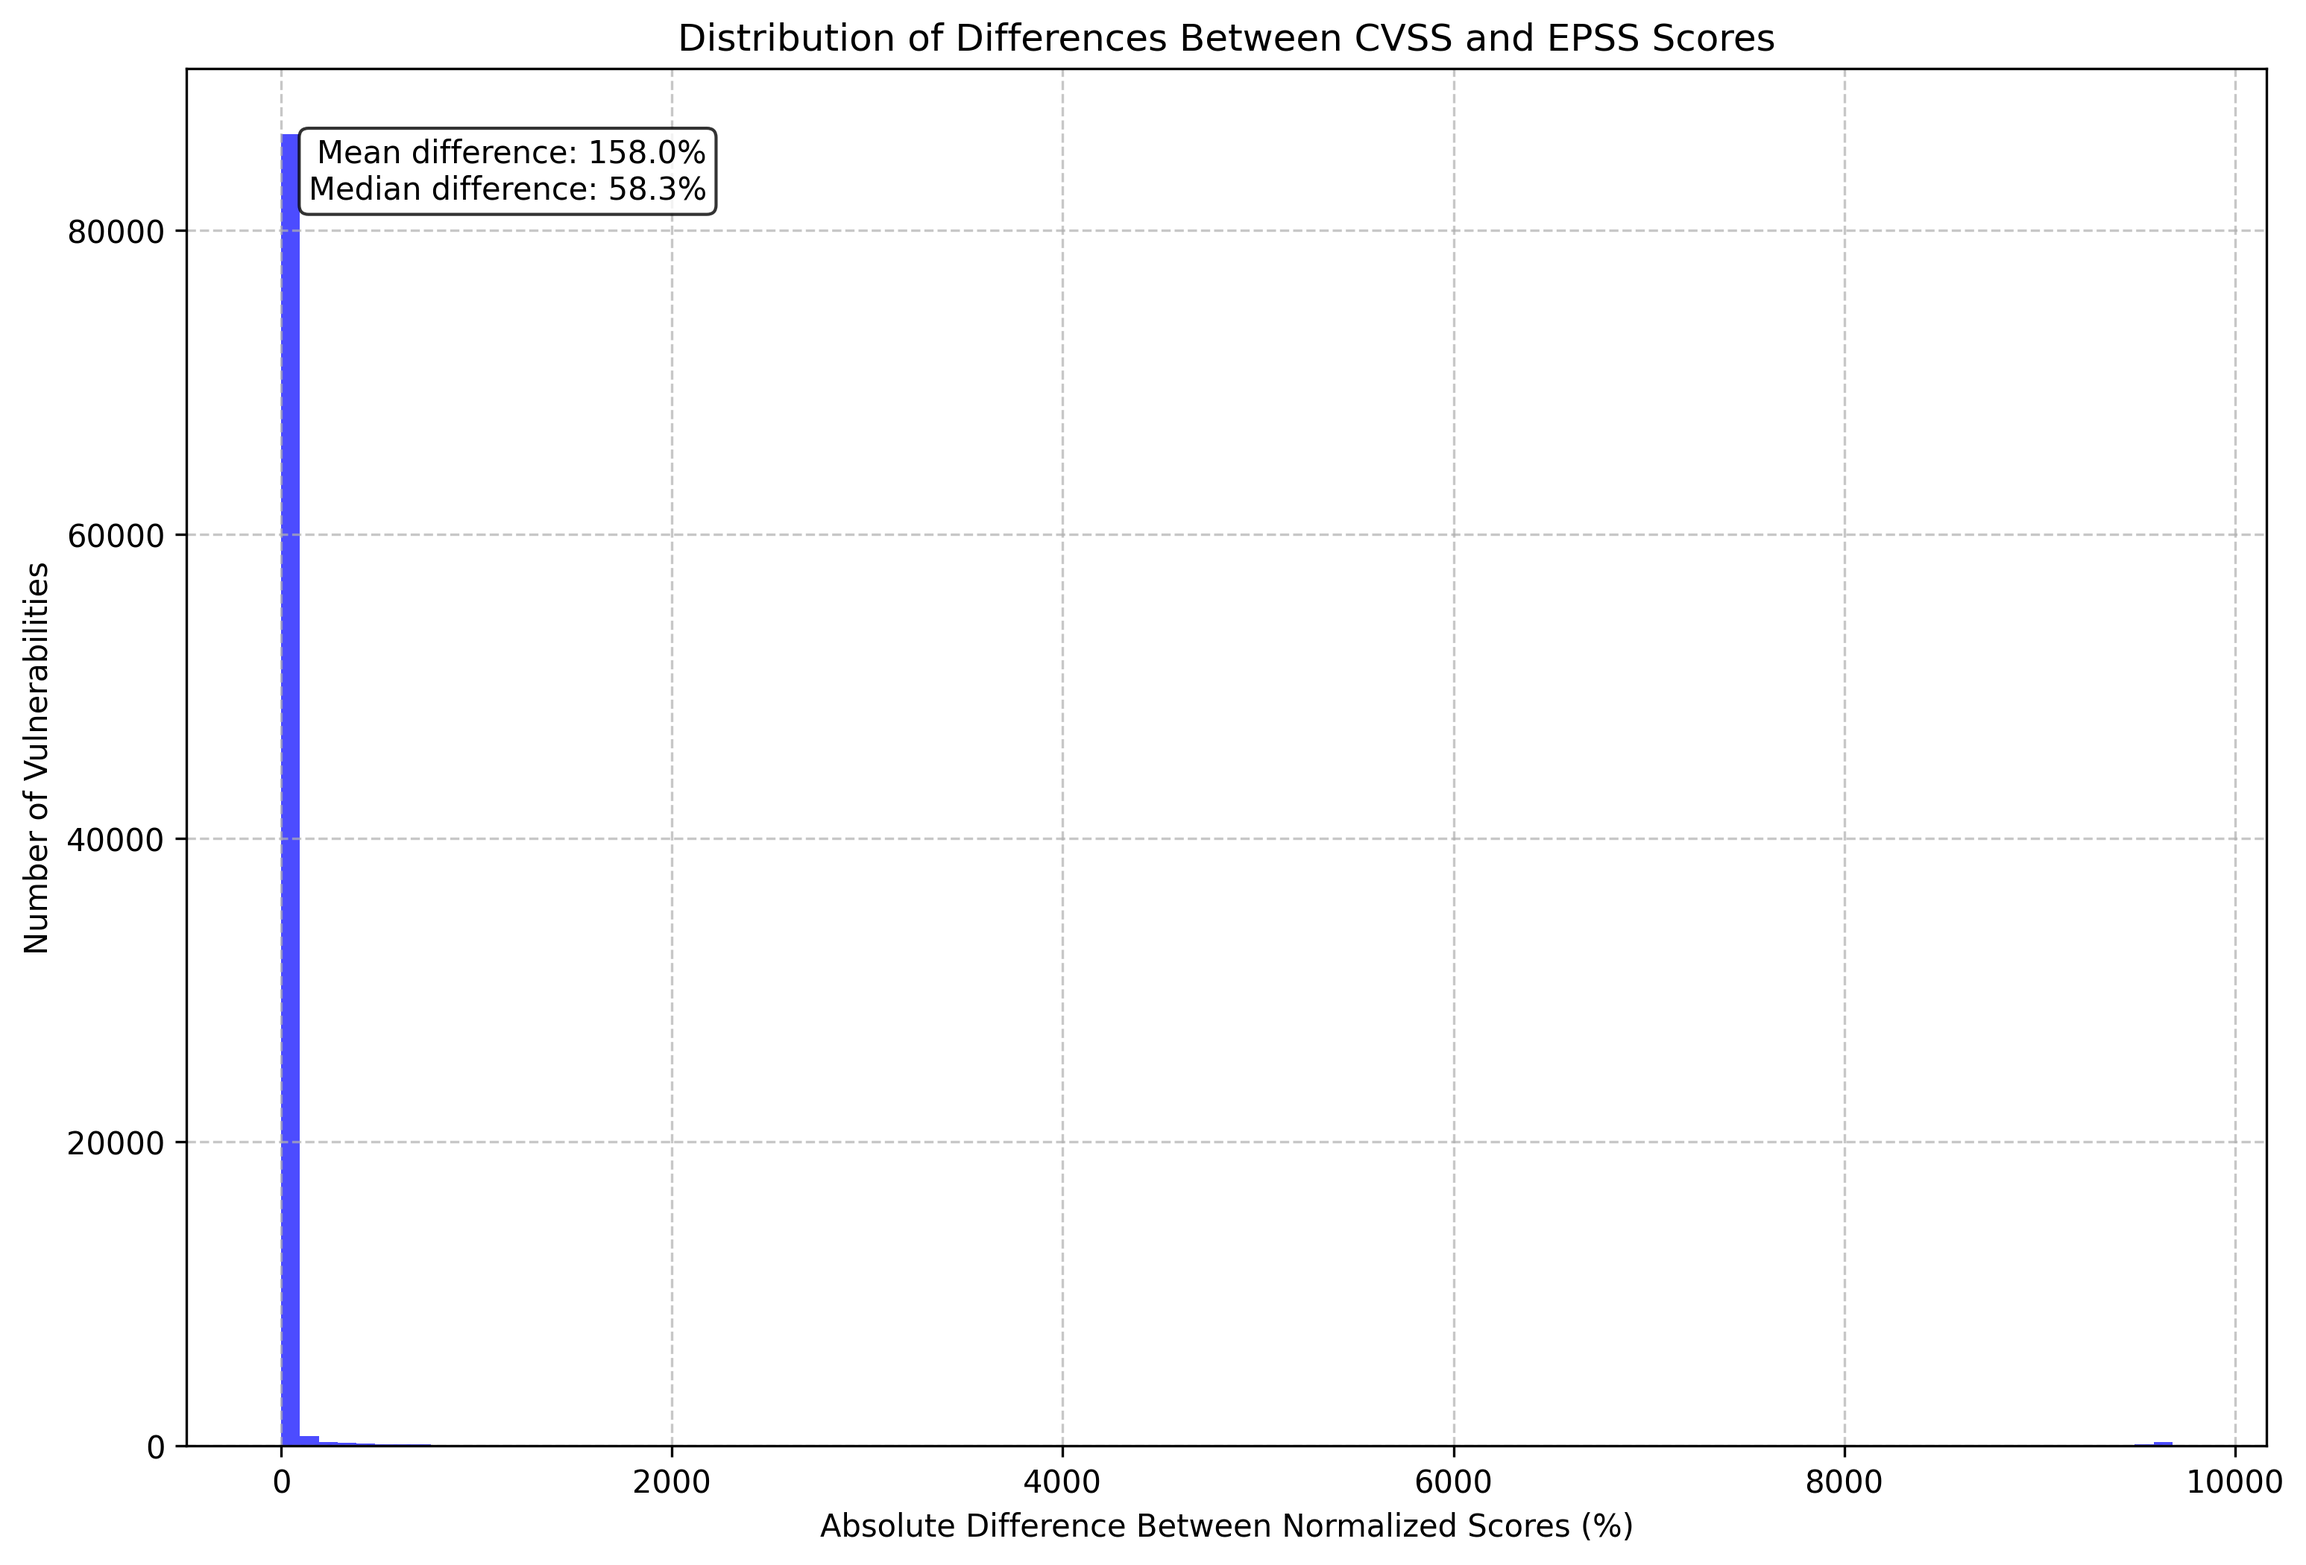
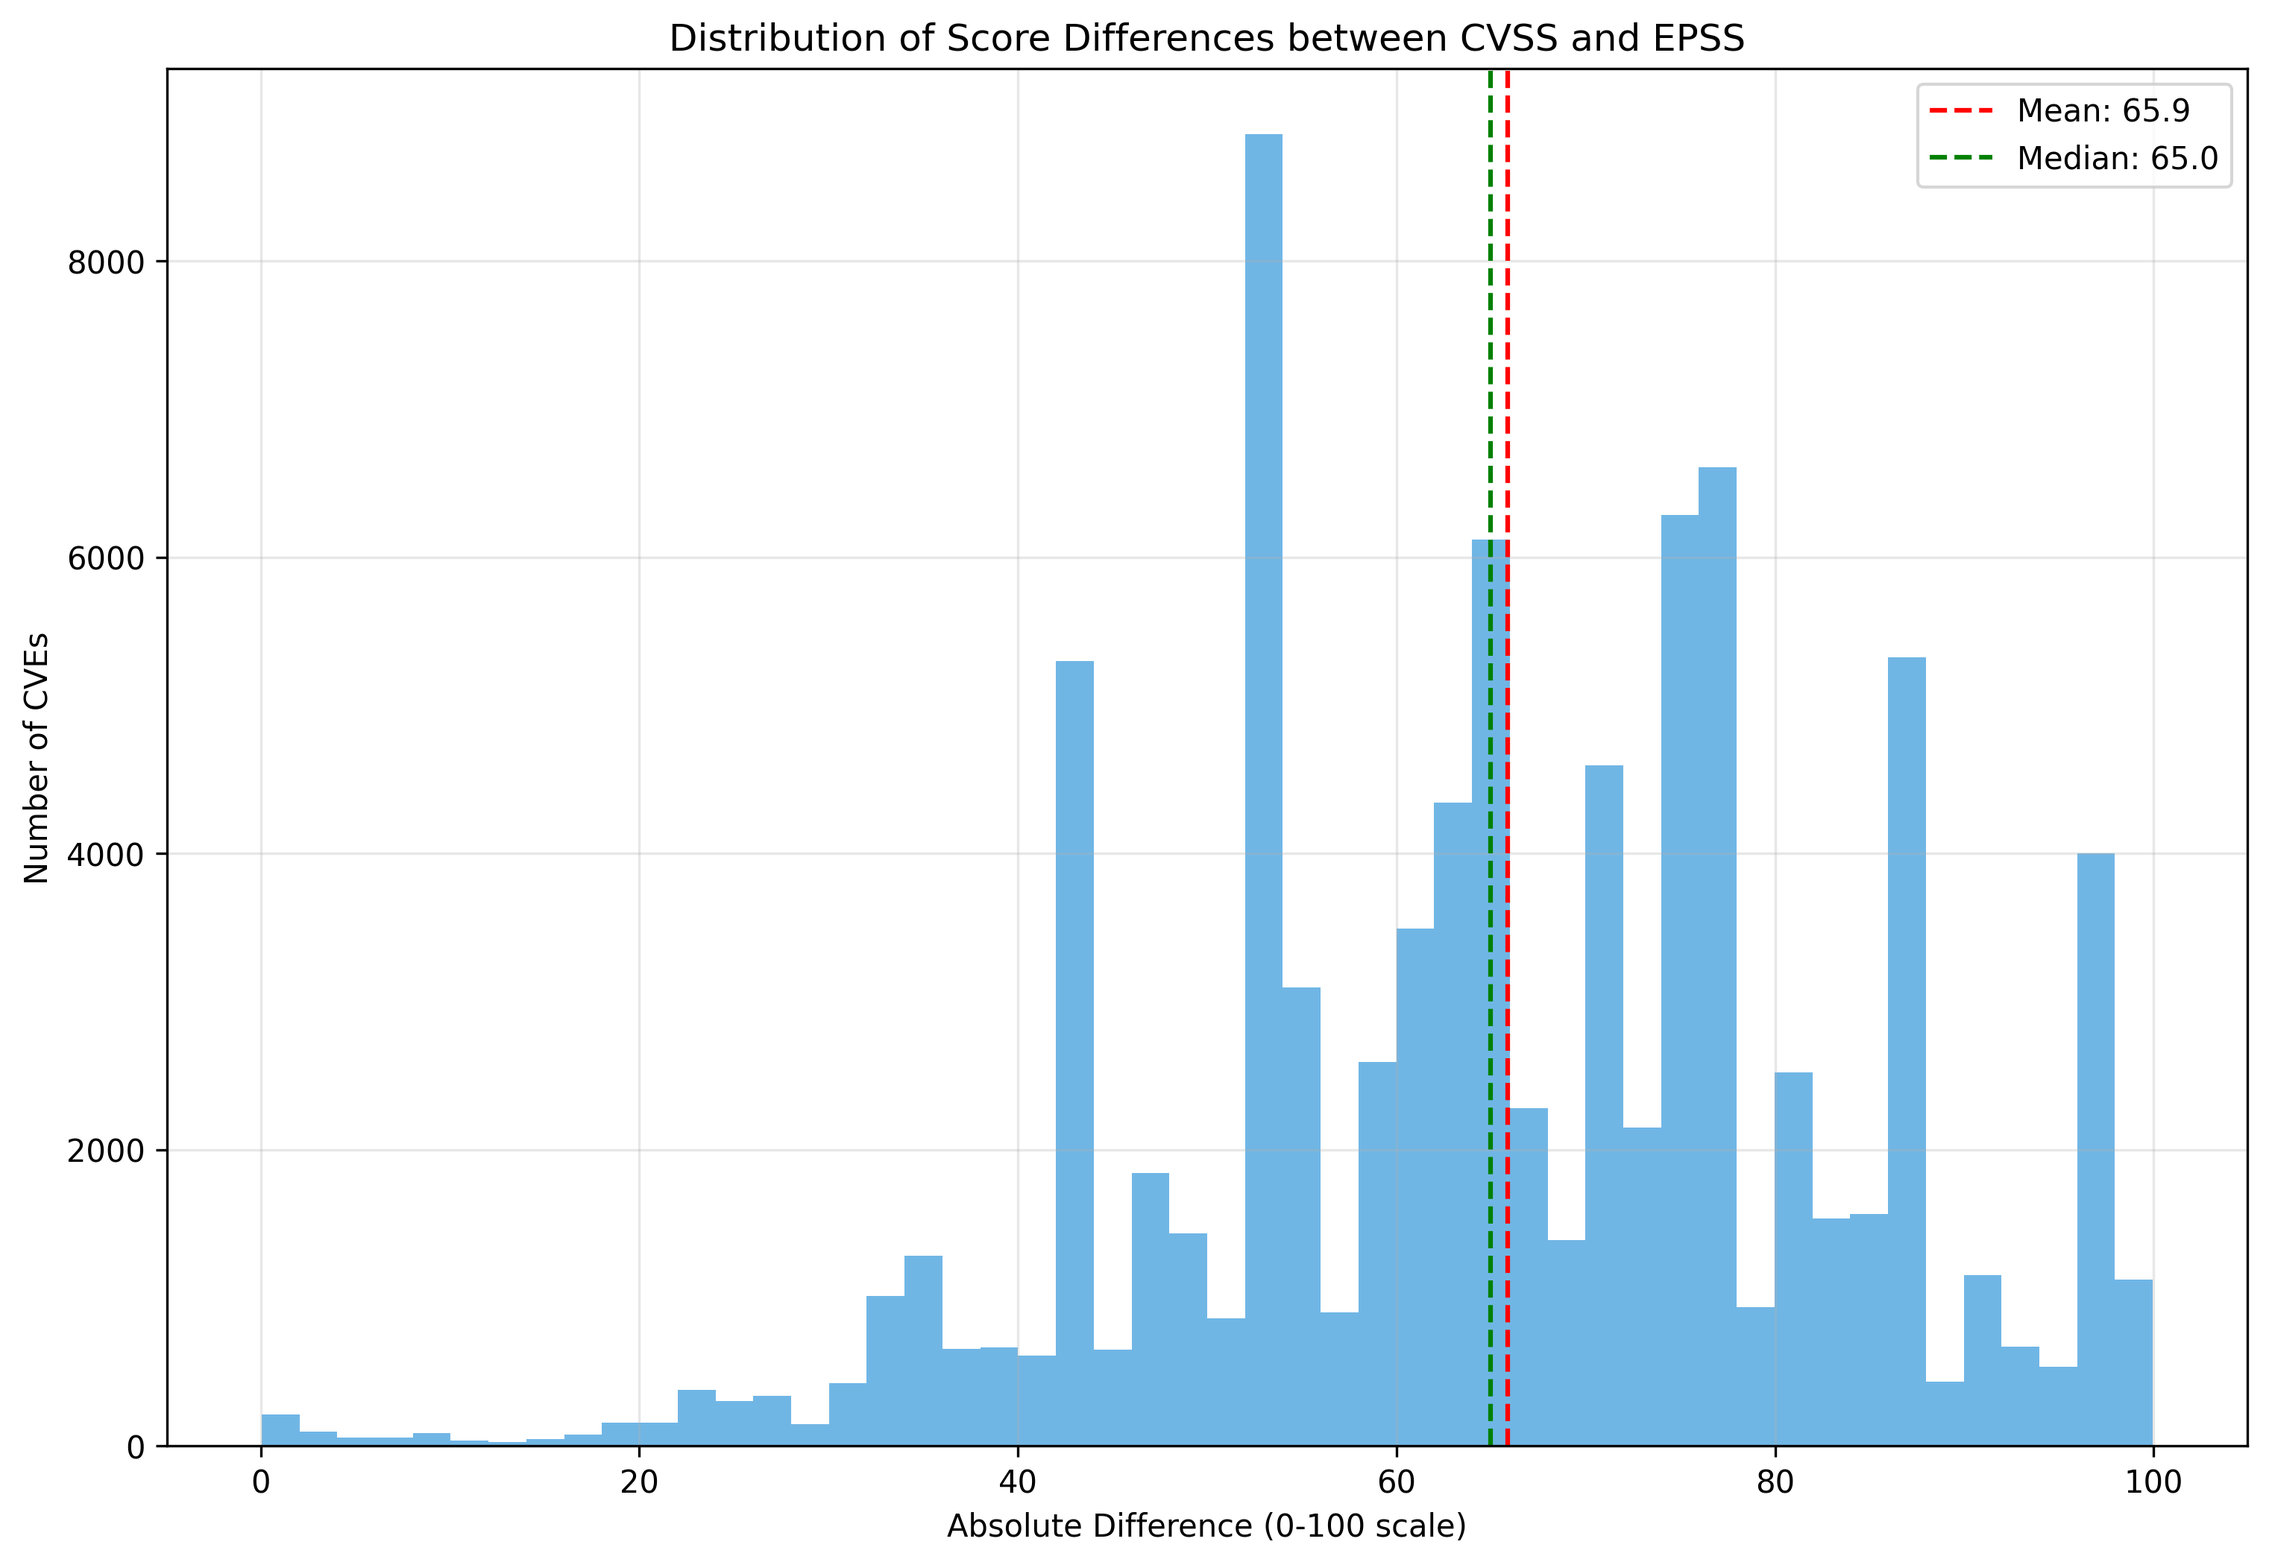
Fixed a graph

Changed region(s): [[0.2498, 0.031, 0.999, 0.9905], [0.0, 0.0619, 0.3122, 0.9595], [0.281, 0.0, 0.7805, 0.031]]

diff --git a/index.html b/index.html
@@ -432,6 +432,15 @@
                 <button class="copy-button" onclick="copyGraphLink('kev_epss_correlation')">Copy a link to this graph</button>
             </div>
             
+            <div class="graph-container" id="score_difference_distribution">
+                <h2>Score Difference Distribution</h2>
+                <img src="./images/score_difference_distribution.png" alt="Score Difference Distribution">
+                <div class="description">
+                    Shows the distribution of the delta between CVSS and EPSS scores, normalized to a 0-100 scale. A higher number is more different. Only scored vulnerabilities are included.
+                </div>
+                <button class="copy-button" onclick="copyGraphLink('score_difference_distribution')">Copy a link to this graph</button>
+            </div>
+            
             <div class="graph-container" id="vulncheck_vs_cve">
                 <h2>Vulncheck KEV vs CVE</h2>
                 <img src="./images/vulncheck_vs_cve.png" alt="Vulncheck KEV vs CVE">
@@ -442,10 +451,10 @@
             </div>
             
             <div class="graph-container" id="vulncheck_vs_kev">
-                <h2>Vulncheck KEV vs KEV</h2>
-                <img src="./images/vulncheck_vs_kev.png" alt="Vulncheck KEV vs KEV">
+                <h2>Vulncheck KEV vs CISA KEV</h2>
+                <img src="./images/vulncheck_vs_kev.png" alt="Vulncheck KEV vs CISA KEV">
                 <div class="description">
-                    Shows the distribution of Vulncheck KEV vs KEV, providing insight into the relationship between the two. Only scored vulnerabilities are included.
+                    Shows the distribution of Vulncheck KEV vs CISA KEV, providing insight into the relationship between the two. Only scored vulnerabilities are included.
                 </div>
                 <button class="copy-button" onclick="copyGraphLink('vulncheck_vs_kev')">Copy a link to this graph</button>
             </div>
